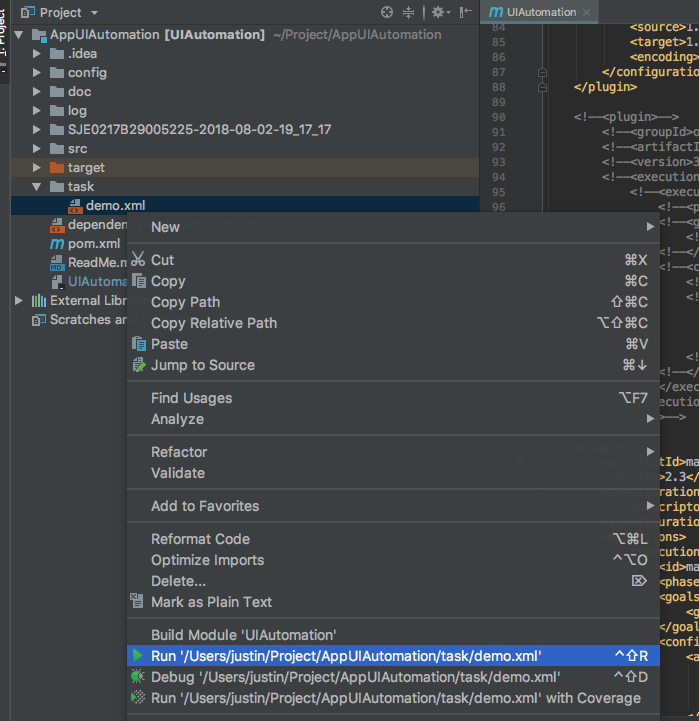
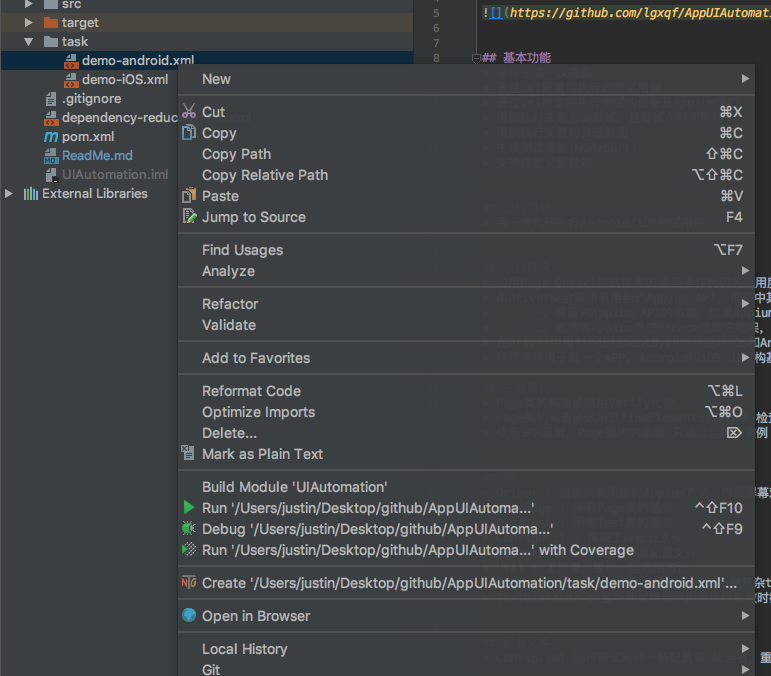
update

Changed region(s): [[0.0, 0.0, 1.0, 1.0], [0.7811, 0.1864, 0.8112, 0.2175], [0.691, 0.2175, 0.721, 0.2485]]

diff --git a/ReadMe.md b/ReadMe.md
@@ -7,7 +7,7 @@
 
 ## 基本功能
 * 每秒生成一次截图
-* 通过yml配置待执行的测试用例
+* 通过xml配置待执行的测试用例
 * 通过yml指定待执行测试的设备及Appium端口
 * 用例执行失败自动重试，且重试次数可配置
 * 用例执行失败时自动截图
@@ -55,17 +55,17 @@
 
 
 ## 测试用例集 
-* 框架通过读取 task目录下的yml 运行指定的测试用例
+* 框架通过读取 task目录下的xml 运行指定的测试用例
 
 
 ```
-在任务的yml中配置四项值
+在任务的xml中有四个值需要配置
 1. port : Appium 端口   
 2. udid : 设备ID
 3. wdaPort : iOS设备运行的时的WDA port
 4. class : 待运行的测试类
 
-测试执行时输入的yml样例
+测试执行时输入的xml样例
 
 <?xml version="1.0" encoding="UTF-8"?>
 <!DOCTYPE suite SYSTEM "http://testng.org/testng-1.0.dtd">
@@ -90,8 +90,8 @@
 ## 如何运行demo
 * demo实现的功能：打开微信(若未登录微信，请先手动登录)，然后打开朋友圈，查看第一个朋友圈(带图片的)
 * 启动Appium，然后运行以下命令
-* 方式一 ： 将工程打成Jar包，然后运行命令 java -jar UIAutomation-1.0-fat-tests  ./task/demo.yml
-* 方式2  ： IDEA中 右键单击demo.yml ,选择运行。见下图
+* 方式一 ： 将工程打成Jar包，然后运行命令 java -jar UIAutomation-1.0-fat-tests  ./task/demo.xml
+* 方式2  ： IDEA中 右键单击demo.xml ,选择运行。见下图
 ![](https://github.com/lgxqf/AppUIAutomation/blob/master/doc/Run-By-IDEA.png)
 
 
